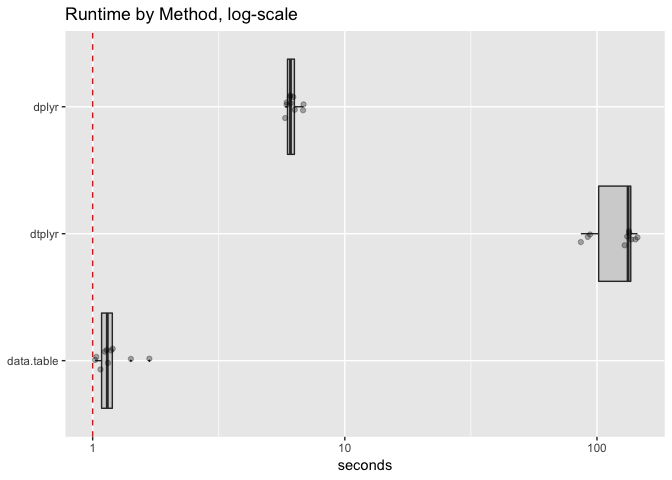
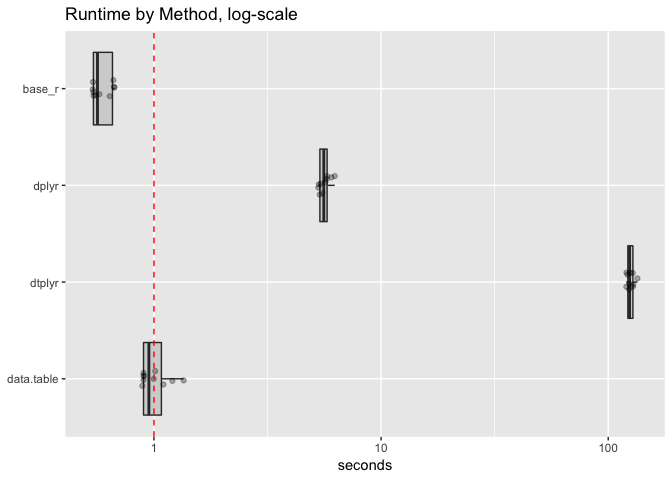
re-run

diff --git a/Time_dtplyr/time_dtplyr.md b/Time_dtplyr/time_dtplyr.md
@@ -45,12 +45,17 @@ mk_data <- function(nrow, ncol) {
   }
   d
 }
-
-df <- mk_data(100000, 100)
-nstep <- 1000
 ```
 
 ``` r
+base_r_fn <- function(df) {
+  dt <- df
+  for(i in seq_len(nstep)) {
+    dt$x1 <- dt$x1 + 1
+  }
+  dt
+}
+
 dplyr_fn <- function(df) {
   dt <- df
   for(i in seq_len(nstep)) {
@@ -77,7 +82,50 @@ data.table_fn <- function(df) {
 ```
 
 ``` r
+df <- mk_data(3, 2)
+nstep <- 5
+
+base_r_fn(df)
+```
+
+    ##         x1         x2
+    ## 1 3.813766 -0.5188262
+    ## 2 6.493606 -0.8801488
+    ## 3 3.289314 -1.0606017
+
+``` r
+dplyr_fn(df)
+```
+
+    ##         x1         x2
+    ## 1 3.813766 -0.5188262
+    ## 2 6.493606 -0.8801488
+    ## 3 3.289314 -1.0606017
+
+``` r
+dtplyr_fn(df)
+```
+
+    ##          x1         x2
+    ## 1: 3.813766 -0.5188262
+    ## 2: 6.493606 -0.8801488
+    ## 3: 3.289314 -1.0606017
+
+``` r
+data.table_fn(df)
+```
+
+    ##          x1         x2
+    ## 1: 3.813766 -0.5188262
+    ## 2: 6.493606 -0.8801488
+    ## 3: 3.289314 -1.0606017
+
+``` r
+df <- mk_data(100000, 100)
+nstep <- 1000
+
 timings <- microbenchmark(
+  base_r = base_r_fn(df),
   dplyr = dplyr_fn(df),
   dtplyr = dtplyr_fn(df),
   data.table = data.table_fn(df),
@@ -101,9 +149,10 @@ as.data.table(tdf)[
 ```
 
     ##        method mean_seconds
-    ## 1: data.table     1.201450
-    ## 2:      dplyr     6.204858
-    ## 3:     dtplyr   122.440178
+    ## 1:     base_r    0.5926309
+    ## 2: data.table    1.0159766
+    ## 3:      dplyr    5.6442961
+    ## 4:     dtplyr  125.3737996
 
 ``` r
 WVPlots::ScatterBoxPlotH(tdf, "seconds","method",  
